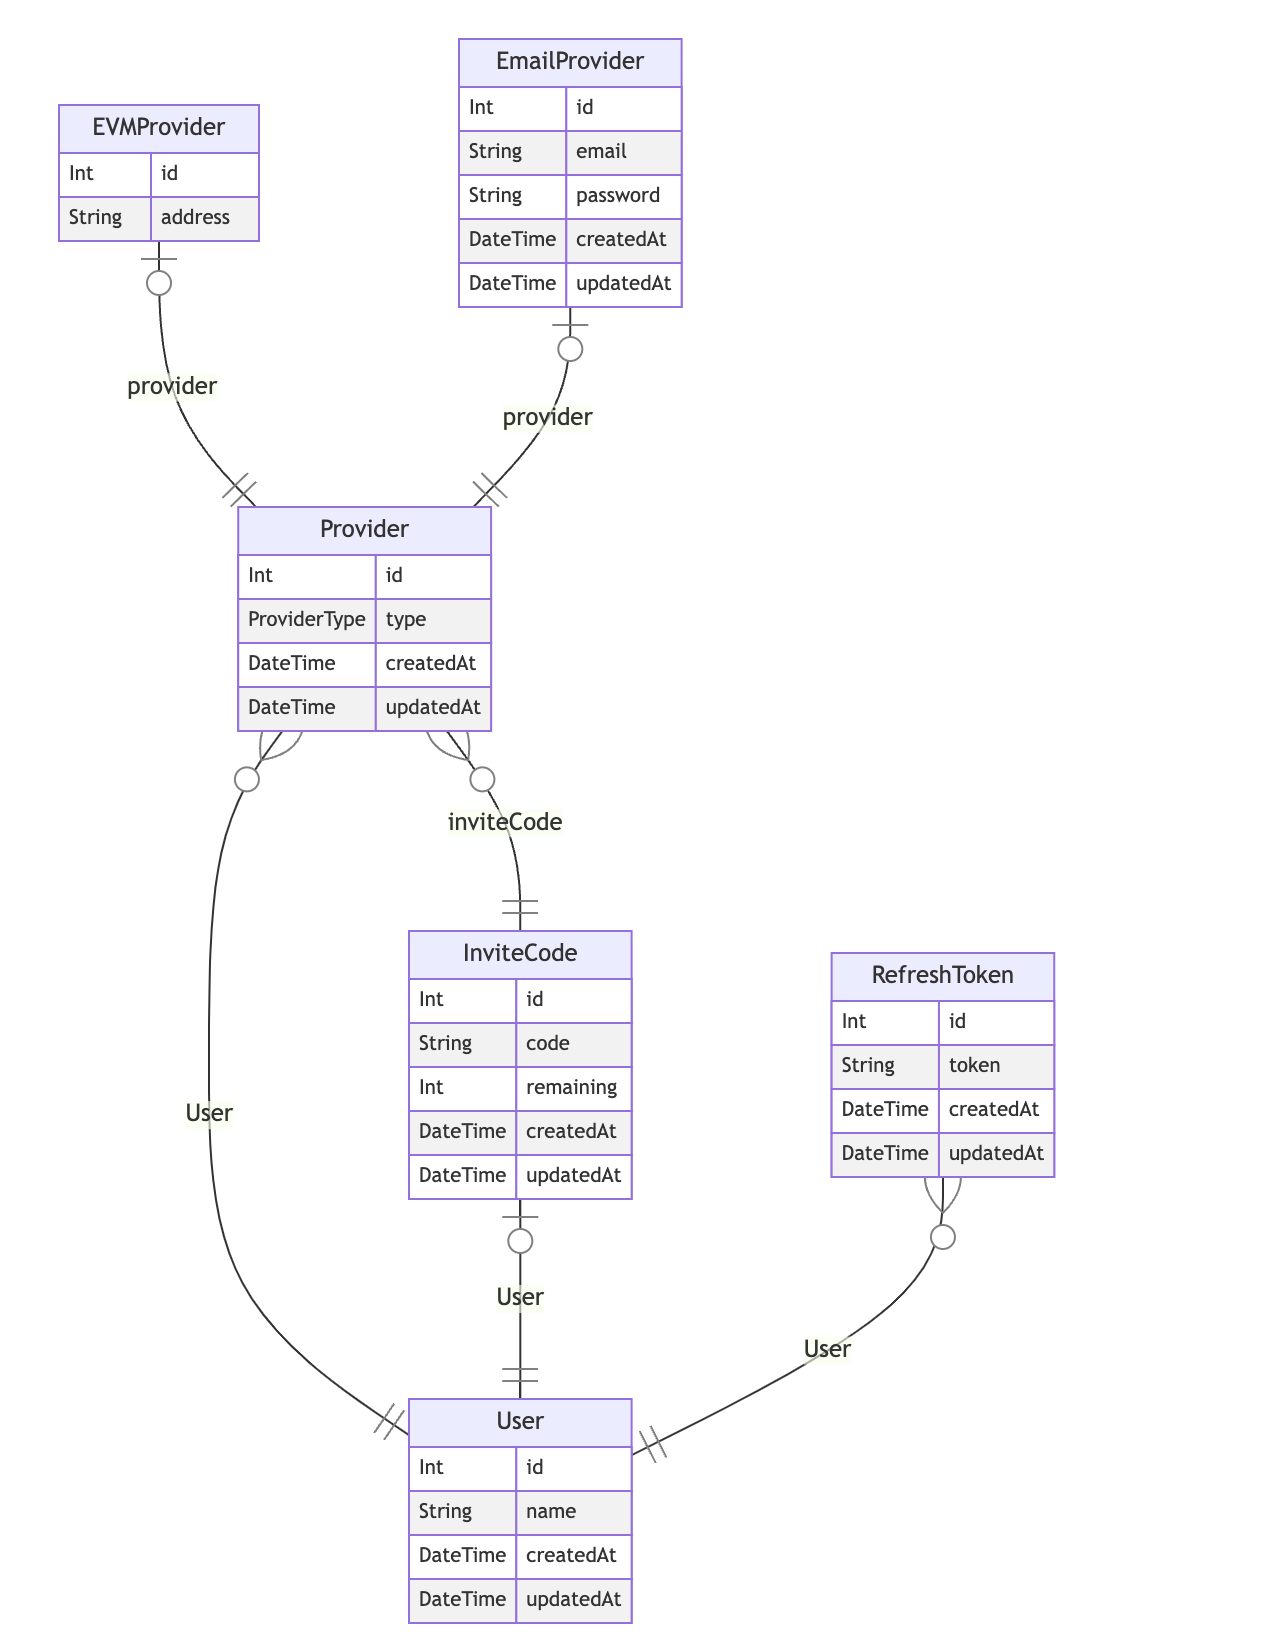
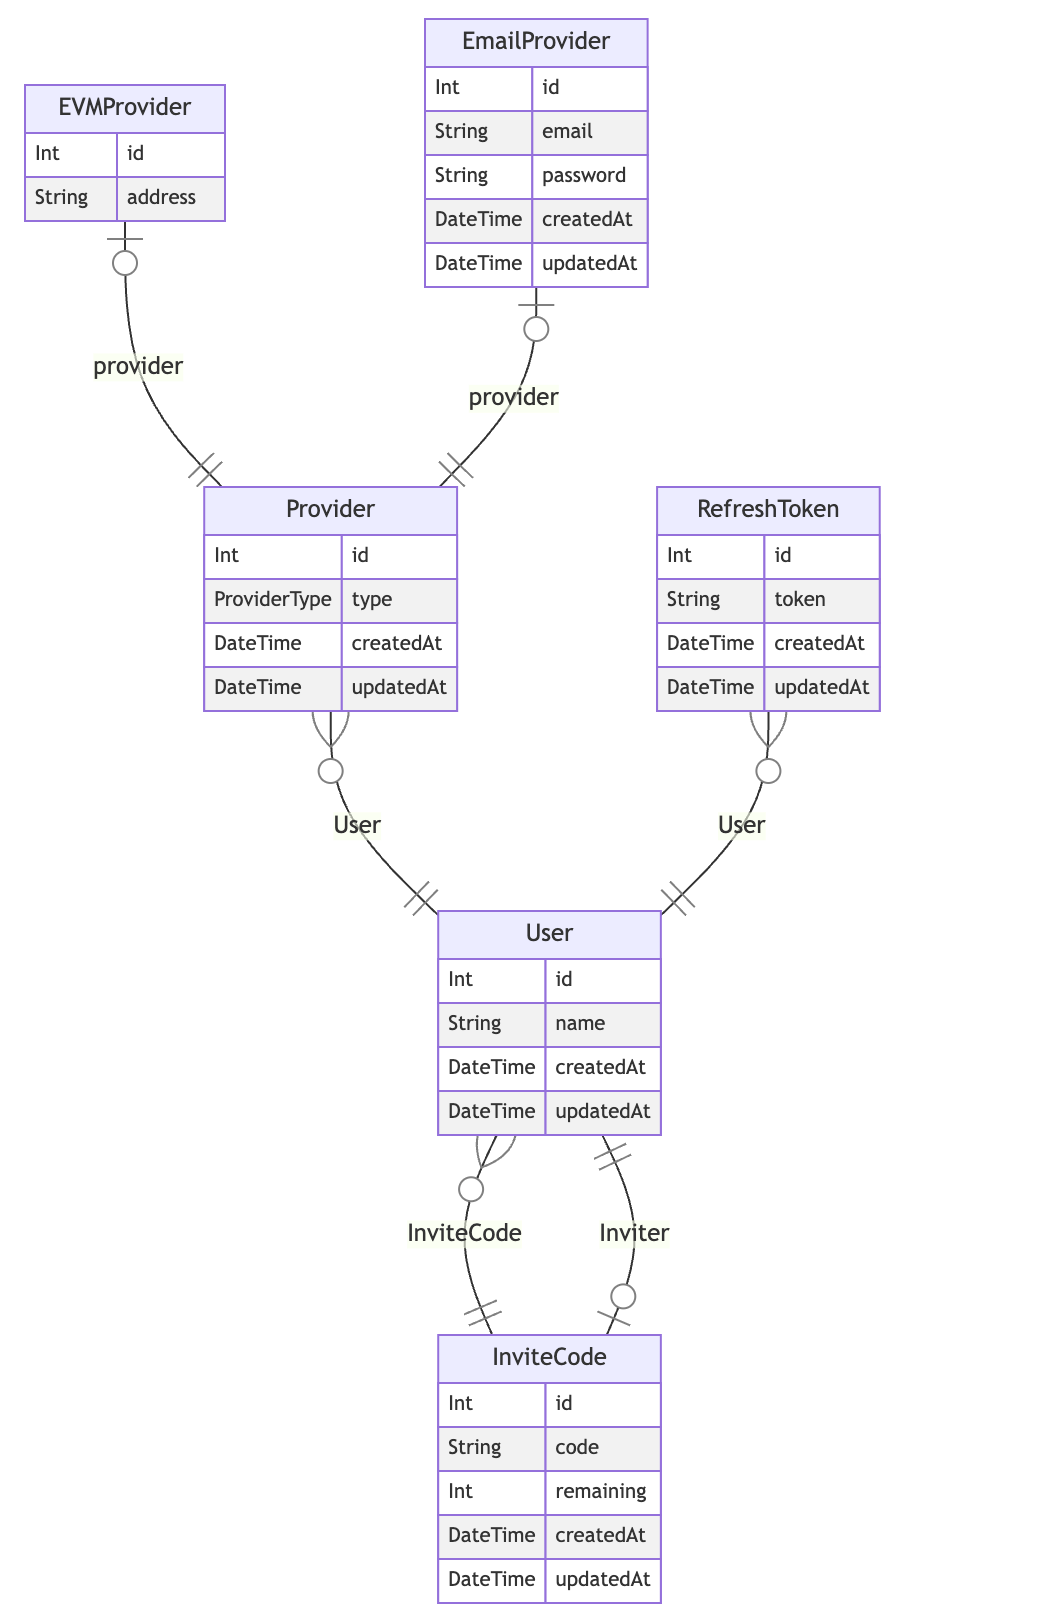
update docs

diff --git a/libs/feature-auth/service/src/lib/auth-service.spec.ts b/libs/feature-auth/service/src/lib/auth-service.spec.ts
@@ -6,6 +6,7 @@ import * as jwt from 'jsonwebtoken';
 import { AuthService } from './auth-service';
 import { DefaultArgs } from '.prisma/client/runtime/library';
 import { PrismaClient, Prisma } from '@prisma/client';
+import ShortUniqueId = require('short-unique-id');
 
 // Mock dependencies
 jest.mock('@mocaverse/config-service');
@@ -38,6 +39,15 @@ describe('AuthService', () => {
       const mockEmail = 'test@example.com';
       const mockPassword = 'password123';
       const mockInviteCode = 'inviteCode123';
+      const mockInviteCodeToCreate = 'inviteCode234';
+
+      // create one invite code
+      const inviteCode = await prismock.inviteCode.create({
+        data: {
+          code: mockInviteCode,
+          remaining: 10,
+        },
+      });
 
       await prismock.emailProvider.create({
         data: {
@@ -49,15 +59,15 @@ describe('AuthService', () => {
               User: {
                 create: {
                   name: 'Test User',
-                },
-              },
-              inviteCode: {
-                create: {
-                  code: mockInviteCode,
-                  remaining: 10,
-                  User: {
+                  InviteCode: {
+                    connect: {
+                      code: inviteCode.code,
+                    },
+                  },
+                  InviterToInvitee: {
                     create: {
-                      name: 'Test User',
+                      code: mockInviteCodeToCreate,
+                      remaining: 10,
                     },
                   },
                 },
@@ -93,6 +103,14 @@ describe('AuthService', () => {
     });
 
     it('should throw ServerError if password is incorrect', async () => {
+      // create one invite code
+      const inviteCode = await prismock.inviteCode.create({
+        data: {
+          code: 'inviteCode123',
+          remaining: 10,
+        },
+      });
+
       await prismock.emailProvider.create({
         data: {
           email: 'test@example.com',
@@ -103,15 +121,15 @@ describe('AuthService', () => {
               User: {
                 create: {
                   name: 'Test User',
-                },
-              },
-              inviteCode: {
-                create: {
-                  code: 'inviteCode123',
-                  remaining: 10,
-                  User: {
+                  InviteCode: {
+                    connect: {
+                      code: inviteCode.code,
+                    },
+                  },
+                  InviterToInvitee: {
                     create: {
-                      name: 'Test User',
+                      code: 'inviteCode234',
+                      remaining: 10,
                     },
                   },
                 },

diff --git a/libs/feature-auth/service/src/lib/auth-service.ts b/libs/feature-auth/service/src/lib/auth-service.ts
@@ -10,7 +10,7 @@ type Config = {
 };
 
 export class AuthService {
-  private uid = new ShortUniqueId({ length: 6, dictionary: 'alphanum_upper' });
+  private uid = new ShortUniqueId({ length: 8, dictionary: 'alphanum_upper' });
   constructor(
     private readonly configService: ConfigService,
     private db: PrismaClient,
@@ -118,10 +118,10 @@ export class AuthService {
 
       const user = await tx.user.create({
         data: {
+          inviteCodeId: code.id,
           providers: {
             create: {
               type: 'EMAIL',
-              inviteCodeId: code.id,
               EmailProvider: {
                 create: {
                   email,
@@ -130,7 +130,7 @@ export class AuthService {
               },
             },
           },
-          InviteCode: {
+          InviterToInvitee: {
             create: {
               code: newInviteCode,
               remaining: this.config.INITIAL_REMAINING_INVITE_CODE,

diff --git a/libs/mocaverse-prisma-schema/prisma/seed.ts b/libs/mocaverse-prisma-schema/prisma/seed.ts
@@ -34,8 +34,8 @@ async function generateUsers() {
 
 async function generateInviteCodes(userId: number[]) {
   const { randomUUID } = new ShortUniqueId({
-    length: 6,
-    dictionary: 'alpha_upper',
+    length: 8,
+    dictionary: 'alphanum_upper',
   });
   const inviteCodes = Array.from({ length: 10 }, () => randomUUID());
 

diff --git a/libs/feature-auth/handler/src/lib/auth-handler.spec.ts b/libs/feature-auth/handler/src/lib/auth-handler.spec.ts
@@ -111,7 +111,7 @@ describe('authHandler', () => {
       });
 
       const response = await request(app)
-        .post('/auth/refresh-token')
+        .post('/auth/refresh')
         .send({ refreshToken: 'mockRefreshToken' });
 
       expect(response.status).toBe(200);

diff --git a/jest.preset.js b/jest.preset.js
@@ -1,3 +1,3 @@
 const nxPreset = require('@nx/jest/preset').default;
 
-module.exports = { ...nxPreset };
+module.exports = { ...nxPreset, passWithNoTests: true };

diff --git a/README.md b/README.md
@@ -1,37 +1,77 @@
 # Mocaverse Invite Code System
 
-## Table of Contents
-1. [System Design](#system-design)
-   - [Invite Code Generation](#invite-code-generation)
-   - [Database Schema](#database-schema)
-   - [API Endpoints](#api-endpoints)
-2. [Implementation](#implementation)
-   - [Technologies Used](#technologies-used)
-   - [Project Structure](#project-structure)
-3. [Setup Instructions](#setup-instructions)
-   - [Prerequisites](#prerequisites)
-   - [Installation](#installation)
-   - [Running the Application](#running-the-application)
-4. [Testing](#testing)
-   - [Unit Tests](#unit-tests)
-   - [Integration Tests](#integration-tests)
-   - [Load Testing](#load-testing)
-5. [Design Decisions and Reasoning](#design-decisions-and-reasoning)
-   - [Invite Code Format](#invite-code-format)
-   - [Database Choice](#database-choice)
-   - [Concurrency Handling](#concurrency-handling)
-   - [Security Measures](#security-measures)
-6. [Future Improvements](#future-improvements)
-
 ## System Design
 
 ### Database Schema
 
-The system utilizes a relational database to store and manage invite codes. The schema includes tables for users, invite codes, and their relationships. This structure allows for efficient tracking of code usage, remaining invites, and user associations.
-
 <p align="center">
   <img src="./assets/database-schema.png" width="50%">
 </p>
+
+- One user can have one invite code (Inviter)
+- One invite code can be used by many users (InviteCode)
+- One user can has many refresh tokens (session management)
+- One user can has many providers (for future multi-login support)
+- A Provider has a type (ProviderType):
+  - EVM Wallet
+  - Email
+
+### Decision Reasoning
+#### Invite codes need to have a limit on usage (once or multiple times)
+
+| Options | Decision | Reasoning |
+|---------|----------|-----------|
+| Invite code can have two types: `ONCE` or `MULTIPLE` | ❌ | - We don't have lots of types of invite codes, so it's not worth having two types. |
+| Invite code has a remaining count (`remaining`), when it is used up (0), it is no longer valid | ✅ | - It is easier to implement and understand. |
+
+Decision made:
+- Invite code has a remaining count (`remaining`), when it is used up (0), it is no longer valid
+
+#### Invite codes should be hard to guess, but also not too hard to type
+
+| Consideration | Details |
+|---------------|---------|
+| User Base | ~1 million users |
+| Ease of Use | - Easy to type<br>- Avoid lowercase/uppercase confusion<br>- No special characters |
+| Security | Short but hard to guess |
+
+Decision made:
+- Format: 8 characters, alphanumeric, uppercase only
+- Collision rate: 0.002686% (pool of 36^8 = 2,821,109,907,456 combinations)
+- Benefits:
+  - Easy for users to input and communicate
+  - Reduced ambiguity by using only uppercase letters
+  - Frontend can auto-convert input to uppercase
+
+#### Invite codes are associated with a unique user account
+
+| Options | Decision | Reasoning |
+|---------|----------|-----------|
+| Invite code is associated with a unique email address (a provider) | ❌ | - If a user has multiple providers in the future, it would be difficult to determine which provider the invite code is for. |
+| Invite code is associated with a user | ✅ | - Allows for flexibility with multiple providers per user<br>- Simplifies tracking and management of invite codes |
+
+Decision made:
+- Invite code is associated with a user
+
+Reasoning:
+- If invite code is associated with a provider, in the future, if a user has many providers, it is hard to tell which provider the invite code is for.
+
+#### Invite codes should be trackable, admin should be able to know who the referrer is
+- invite code is associated with an inviter
+- initial invite code does not have inviter
+
+#### Design should be able to withstand high traffic and concurrency
+<p align="center">
+  <img src="./assets/concurrency.png" />
+</p>
+
+- Add index to `code` field to speed up the search
+- Let's say a database transaction may take 30ms (for example) for running `findFirst` and `update` methods (and network latency).
+- Request per second (RPS) = 1000 / 30 = 33.33
+
+#### Design should be hard to hack
+- Invite code is hard to guess, so it is hard to hack (because of the low collision rate)
+- We have a rate limit on API (register with email) to prevent abuse
 
 ### API Endpoints
 
@@ -52,15 +92,6 @@ The system exposes several RESTful API endpoints for interacting with invite cod
 - Authentication: JSON Web Tokens (JWT)
 - Testing: Jest for unit and integration tests
 
-### Project Structure
-
-The project follows a modular architecture using NX workspace:
-
-- `libs/feature-auth`: Contains authentication-related modules
-- `libs/mocaverse-prisma-client`: Prisma client for database interactions
-- `libs/shared-api`: Shared API contracts
-- `apps/mocaverse-server`: Main server application
-
 ## Setup Instructions
 
 ### Prerequisites
@@ -74,12 +105,28 @@ The project follows a modular architecture using NX workspace:
 1. Clone the repository
 2. Run `pnpm install` to install dependencies
 3. Set up environment variables (refer to `.env.example`)
-4. Run database migrations: `pnpm nx run mocaverse-prisma-schema:migrate`
+4. Push the database schema:
+   ```
+   pnpm nx run mocaverse-prisma-schema:push
+   ```
+5. Seed the database:
+   ```
+   pnpm nx run mocaverse-prisma-schema:seed
+   ```
 
 ### Running the Application
 
-1. Start the server: `pnpm nx run mocaverse-server:serve`
-2. The API will be available at `http://localhost:3000`
+1. Start the database using Docker Compose:
+   ```
+   docker-compose up -d
+   ```
+
+2. Start the server:
+   ```
+   pnpm nx run mocaverse-server:serve
+   ```
+
+3. The API will be available at `http://localhost:3000`
 
 ## Testing
 
@@ -87,27 +134,24 @@ The project follows a modular architecture using NX workspace:
 
 Run unit tests with: `pnpm nx run-many -t test`
 
+![alt text](./assets/unit-test.png)
+
+
 ### Integration Tests
 
 Run integration tests with: `pnpm nx run mocaverse-server-e2e:e2e`
 
-### Load Testing
-
-(Instructions for load testing to be added)
-
-## Design Decisions and Reasoning
-
-### Invite Code Format
-
-We chose a 6-character alphanumeric format for invite codes, balancing uniqueness with user-friendliness. This format provides a large number of possible combinations while remaining easy for users to input.
-
 ### Database Choice
 
-PostgreSQL was selected for its robustness, ACID compliance, and excellent support for complex queries and transactions, which are crucial for managing invite codes and user data.
+We chose PostgreSQL as our database system for the following reasons:
+- One of the most popular relational databases
+- Enough features for our system
+- Mature and well-documented
 
-### Concurrency Handling
-
-The system uses database transactions to handle concurrent invite code usage, ensuring that each code is only used once and preventing race conditions.
+We paired PostgreSQL with Prisma ORM due to:
+- Very strong type safety
+- Easy to add models, and it also handles database migrations
+- One of the best database ORM for TypeScript
 
 ### Security Measures
 
@@ -117,7 +161,5 @@ The system uses database transactions to handle concurrent invite code usage, en
 
 ## Future Improvements
 
-1. Implement a caching layer for frequently accessed invite codes
-2. Add support for bulk invite code generation
-3. Develop an admin interface for invite code management
-4. Implement analytics to track invite code usage and user acquisition
+- For larger amount of request per second, we need to use a more scalable database system, such as Redis.
+- Limit one user can only have one email provider
